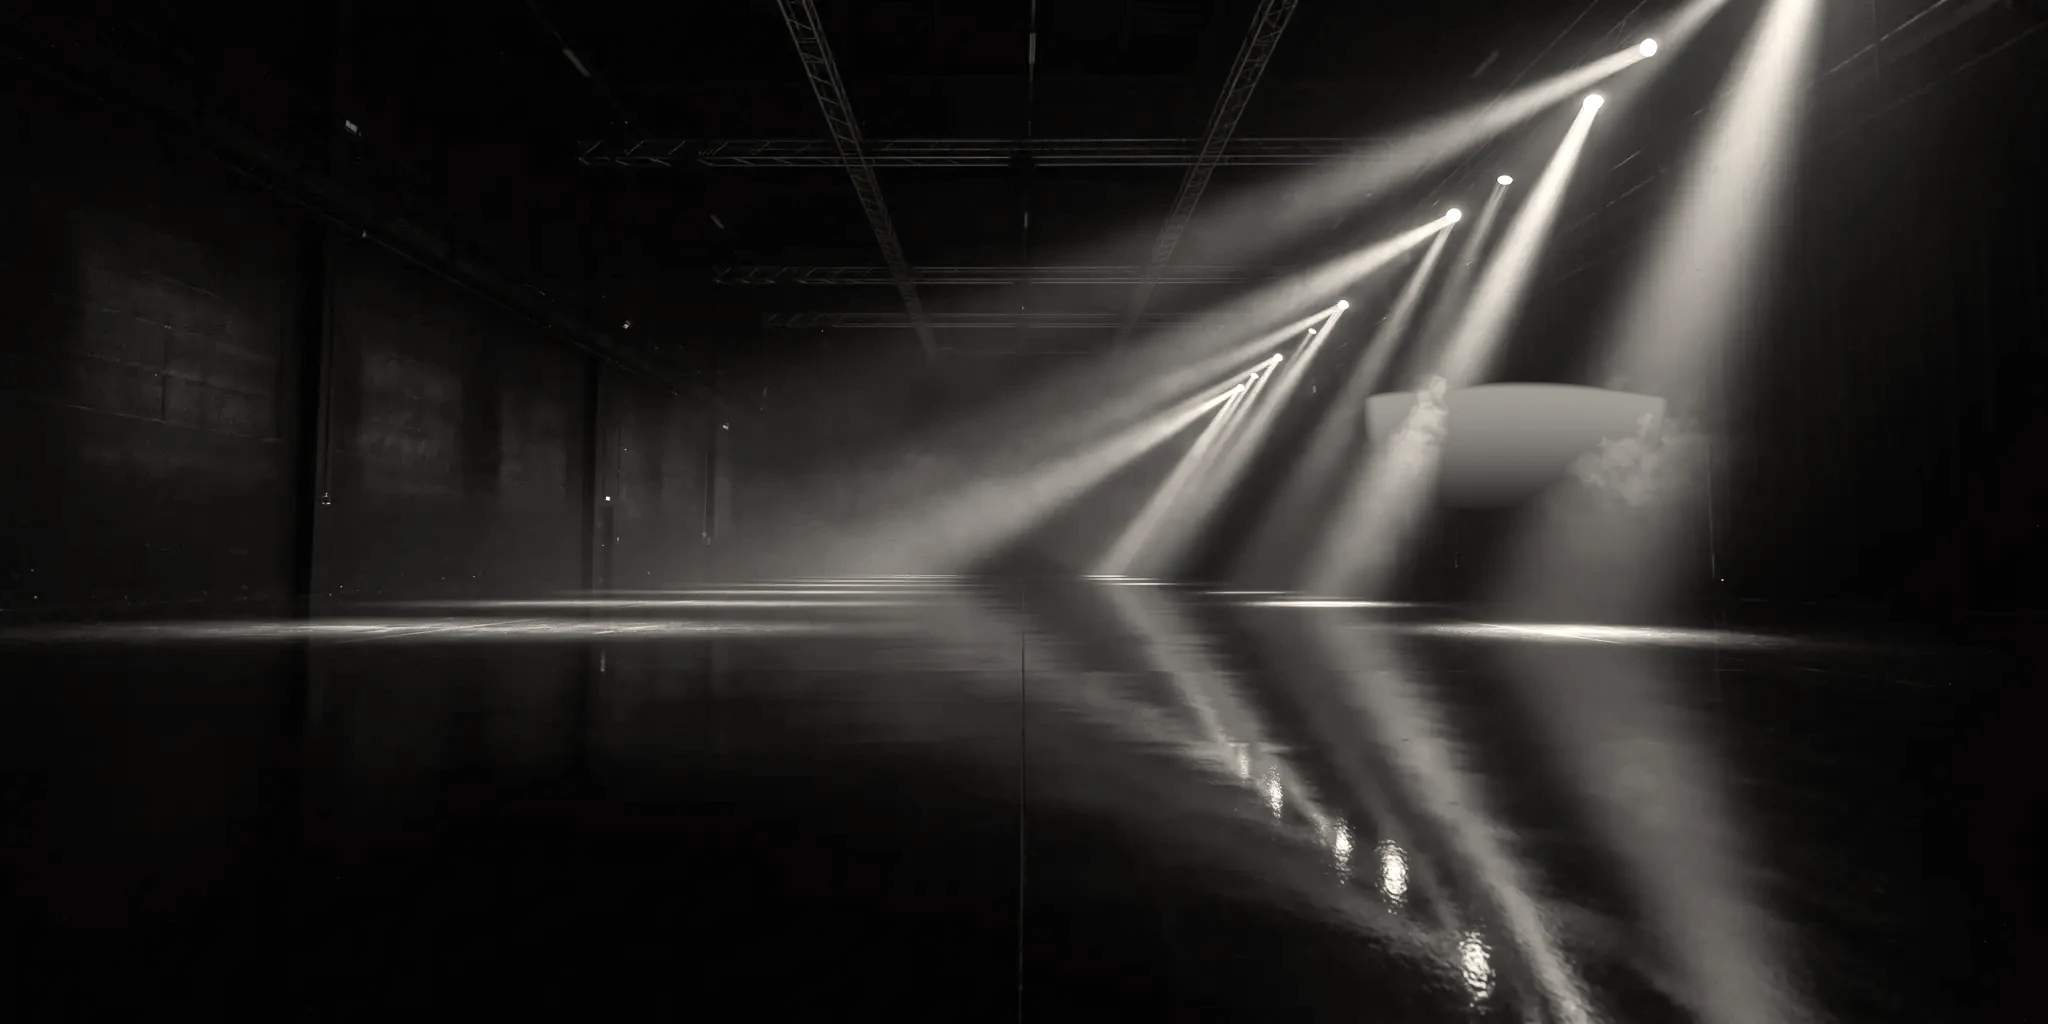
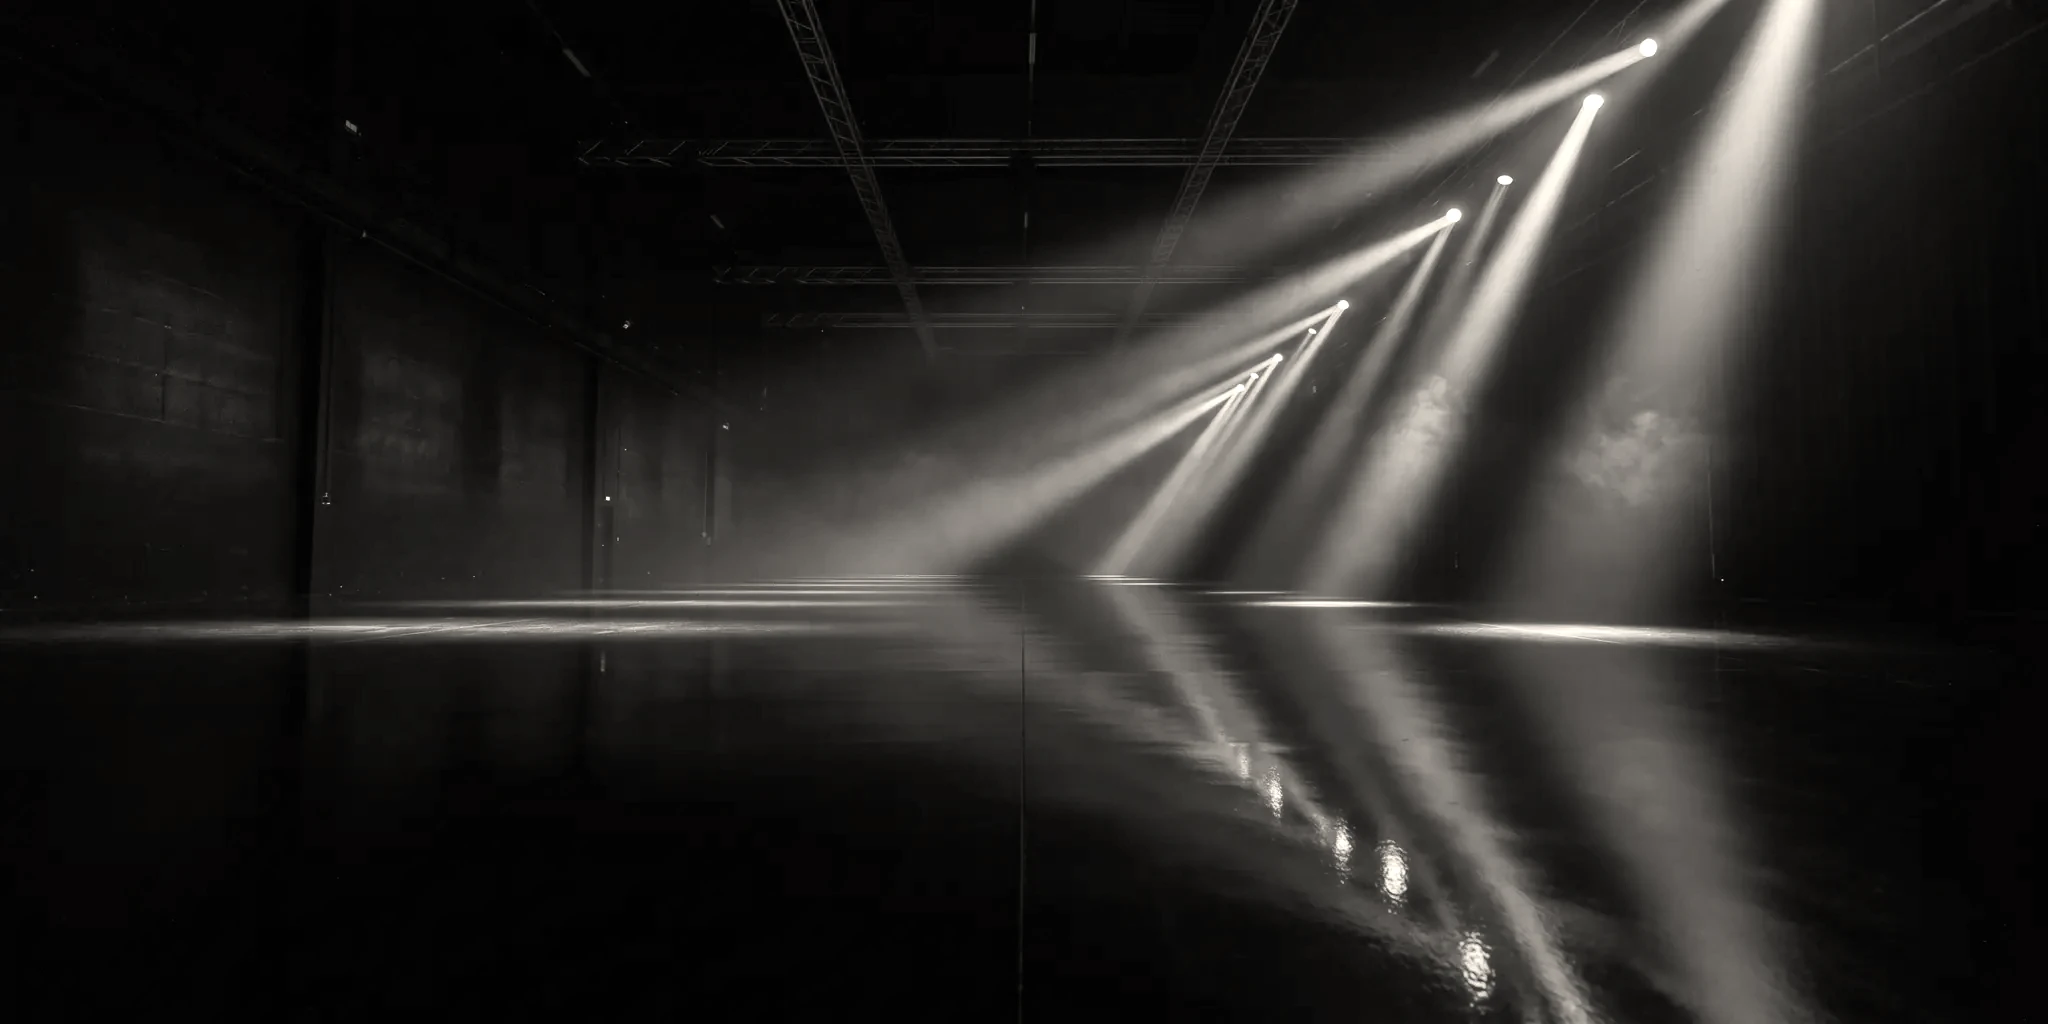
Showroom in Gold auf echter Grafik abgestimmt, Protokoll
Auf der RTX 5070 nachgesehen: Gold spiegelt rund fünfzehnmal mehr als das
alte dunkle Blau, Marke und Portallicht liefen im Bloom zu Weiß aus.
Emission auf gleiche Leuchtdichte wie vorher, Spitzlicht 180 -> 50,
Umgebungsanteil der Marke 2,0 -> 1,0, Bloom-Schwelle 0,92 -> 1,05, die
Cycles-Reflexionsfläche nicht in der Echtzeit-Umgebung.

Claude-Session: https://claude.ai/code/session_0135rAtjoGuAaZoAJvzmob6g

Changed region(s): [[0.6562, 0.375, 0.8125, 0.5]]

diff --git a/showroom.html b/showroom.html
@@ -596,9 +596,9 @@ function starten() {
   /* Warme Graustufenfassung: Das Original ist eine blau-tuerkise Buehne
      (Mittel RGB 7/37/54) und faerbte jede Spiegelung im Saal blau --
      dieselbe Umstellung wie im Cycles-Standbild (saal_goldsilber.py).
-     Darin eingebacken die Lichtflaeche hinter der Kamera aus demselben
-     Skript: Ohne sie spiegelte der Goldschenkel nur dunklen Saal
-     (gemessen V 0,13-0,24 gegen 0,58 auf der Silberseite). */
+     Die Lichtflaeche hinter der Kamera aus dem Cycles-Skript ist hier
+     NICHT eingebacken: Mit ihr lief die Marke in der Naheinstellung zu
+     Weiss aus (RTX 5070) -- hier traegt das Spitzlicht diese Aufgabe. */
   new THREE.TextureLoader().load('/assets/img/env/studio-warm.webp', (t) => {
     t.mapping = THREE.EquirectangularReflectionMapping;
     if ('colorSpace' in t) t.colorSpace = THREE.SRGBColorSpace;
@@ -631,7 +631,7 @@ function starten() {
   /* Sass auf y 7,5 -- mitten in der Deckenplatte, deren Unterkante bei 7,38
      liegt -- und hat sie von innen angestrahlt. Vor der Bauabnahme gab es
      dort keine Decke, deshalb ist es nie aufgefallen. */
-  const spitze = new THREE.SpotLight(0xffffff, 180, 26, 0.55, 0.35, 1.8);
+  const spitze = new THREE.SpotLight(0xffffff, 50, 26, 0.55, 0.35, 1.8);   /* 180 -> 50: Gold spiegelt rund fuenfzehnmal mehr als das alte Blau; mit 90 lief der nahe Schenkel in der Einstellung „Marke“ zu Weiss aus (RTX 5070) */
   spitze.position.set(-5.5, 6.40, 7.5);
   szene.add(spitze);
   szene.add(spitze.target);
@@ -761,7 +761,18 @@ function starten() {
         M_Sockelkante: [1.0, 0.76, 0.40], M_Deckenfeld: [1.0, 0.93, 0.83],
       };
       if (WARM[mat.name] && mat.emissive) {
-        mat.emissive.setRGB(...WARM[mat.name]);
+        /* Gleiche Leuchtdichte wie vorher: Tiefgold hat 2,5-mal so viel
+           Luminanz wie das alte Blau (0,54 gegen 0,21). Ohne Ausgleich lief
+           das Portallicht im Bloom zu einem grossen Fleck aus (RTX 5070). */
+        /* Materialien teilen sich mehrere Meshes: Faktor nur beim ersten
+           Mal bestimmen, danach nach jedem Setzen von STAERKE anwenden. */
+        if (mat.userData.warmFaktor === undefined) {
+          const lum = (c) => 0.2126 * c.r + 0.7152 * c.g + 0.0722 * c.b;
+          const vorher = lum(mat.emissive);
+          mat.emissive.setRGB(...WARM[mat.name]);
+          mat.userData.warmFaktor = vorher > 0 ? vorher / lum(mat.emissive) : 1;
+        }
+        mat.emissiveIntensity *= mat.userData.warmFaktor;
         if (mat.color && mat.color.getHex() !== 0) mat.color.setRGB(...WARM[mat.name]);
       }
       if (mat.name === 'M_Chrom') mat.color.setRGB(0.545, 0.535, 0.515);
@@ -780,7 +791,11 @@ function starten() {
       if (mat.name === 'M_Marke') {
         /* Auch eloxiertes Metall ist nicht makellos: die feine Struktur nimmt
            der Flaeche das Gegossene, ohne dass man sie bewusst sieht. */
-        mat.metalness = 1.0; mat.roughness = 0.155; mat.envMapIntensity = 2.0;
+        mat.metalness = 1.0; mat.roughness = 0.155; mat.envMapIntensity = 1.0;
+        /* 1,0 statt 2,0 seit dem Gold: Die alte Albedo war dunkles Blau
+           (~0,05), Gold spiegelt rund fuenfzehnmal mehr. Mit 2,0 lief die
+           Marke im Bloom zu einem weissen Fleck aus (auf der RTX 5070
+           nachgesehen, Kamera am Ankunftspunkt). */
         /* Poliertes Gold wie die Marke auf der Startseite und im Standbild
            (physikalische F0-Farbe). Der Mischshader aus der Gold-Silber-
            Fassung bleibt, beide Seiten sind jetzt Gold. Die blaue Verlaufstextur aus Blender faellt
@@ -939,7 +954,7 @@ function starten() {
     /* Der Bloom rechnet auf halber Kantenlaenge — ein Viertel der Pixel.
        Er ist ohnehin ein Weichzeichner; die Haelfte sieht man ihm nicht an,
        die Bildrate schon. */
-    if (S.bloom) bloomPass = new UnrealBloomPass(new THREE.Vector2(innerWidth * 0.5, innerHeight * 0.5), S.bloomStaerke, 0.58, 0.92);
+    if (S.bloom) bloomPass = new UnrealBloomPass(new THREE.Vector2(innerWidth * 0.5, innerHeight * 0.5), S.bloomStaerke, 0.58, 1.05);   /* Schwelle 0,92 -> 1,05 seit dem Gold: sonst blueht jede Spiegelung auf der Marke, nicht nur Licht */
     if (S.bloom) composer.addPass(bloomPass);
     gradePass = new ShaderPass(KameraShader);
     composer.addPass(gradePass);

diff --git a/PROJEKT.md b/PROJEKT.md
@@ -4877,3 +4877,8 @@ Uwe: „Statt dem Fragebogen ist es besser, dass der Kunde seine E-Mail-Adresse 
 Uwe: „kann man das gesamte Blau ersetzen mit einem echten Gold", dann „hyperrealistischer Gold-Silber-Verlauf, sehr edel, professionell". Auf Ja/Nein: **„Ja, aber erst nachschärfen"** — das Standbild neu in Blender statt umgefärbt. Die Verwaltung (`app/views`) bleibt bewusst blau.
 - **Farben:** Tokens `--gold-*`/`--silber-*`, `--grad-metall` für Hauptknöpfe (dunkle Schrift, auch beim Überfahren — Weiß auf Champagner wäre kaum lesbar), `--grad-text` für die Kursive. Kundenseiten (`kunde.css`) mit demselben Knopf. Logos und OG-Bild pixelweise über Gold-/Silber-Leuchtdichterampen umgefärbt.
 - **3D-Marke (Echtzeit):** Albedo per `onBeforeCompile` von Gold `#d99a2b` nach Silber `#c9ccd1`, Übergang −2 % … +34 % der Breite um die Mitte. **Standbild (Cycles, `3d-produktion/scripts/saal_goldsilber.py`):** dieselbe Grenze, physikalische F0-Farben, Klarlack 0,6 → 0,1, alle blauen Lichtfugen, der Dunst und die Hallenmetalle warm. Gemessen: Gold verlor unter AgX in hellen Tönen die Farbe (V 0,9 → Sättigung 0,15); eine Reflexionsfläche hinter der Kamera mit halber Stärke brachte es in die Mitteltöne. Drei Lichtfarben saßen in Mischknoten vor dem Shader — gefunden mit `saal_blausuche.py`.
+
+### 24.09.2026 — Vollgold statt Gold-Silber
+Uwe: „Hintergrund in Silber und sonst, was Gold-Silber-Verlauf ist, echtes glänzendes Gold“. Zwei Vorschauen gebaut (A dunkel mit reinem Gold, B gebürstetes Silber als Seitengrund mit silbernem 3D-Studio), dazu eine Blender-Probe mit Silbersaal. **Gewählt: A, Saal im Standbild dunkel.** B liegt auf dem Zweig `vorschau-gold` (silber.css, `THEMEN.silber`), falls es später wieder gefragt ist.
+- Verläufe reines Gold mit zwei Glanzkanten; Echtzeit-V beide Seiten Gold (Mischshader bleibt als Rückweg); Logos aus den blauen Originalen über die Goldrampe. Standbild: `saal_goldsilber.py voll vollgold` (Marke ganz Gold, Rauheit 0,04–0,09).
+- **Showroom-Echtzeit** jetzt ebenfalls warm und gold. Auf der RTX 5070 nachgesehen, nicht im Container (SwiftShader zeigt dort nur das Standbild): Gold spiegelt rund fünfzehnmal mehr als das alte dunkle Blau, Marke und Portallicht liefen im Bloom zu Weiß aus. Ausgleich: Emission auf gleiche Leuchtdichte wie vorher gerechnet, Spitzlicht 180 → 50, Umgebungsanteil der Marke 2,0 → 1,0, Bloom-Schwelle 0,92 → 1,05. Die Reflexionsfläche aus Cycles ist in der Echtzeit bewusst nicht in der Umgebung.
